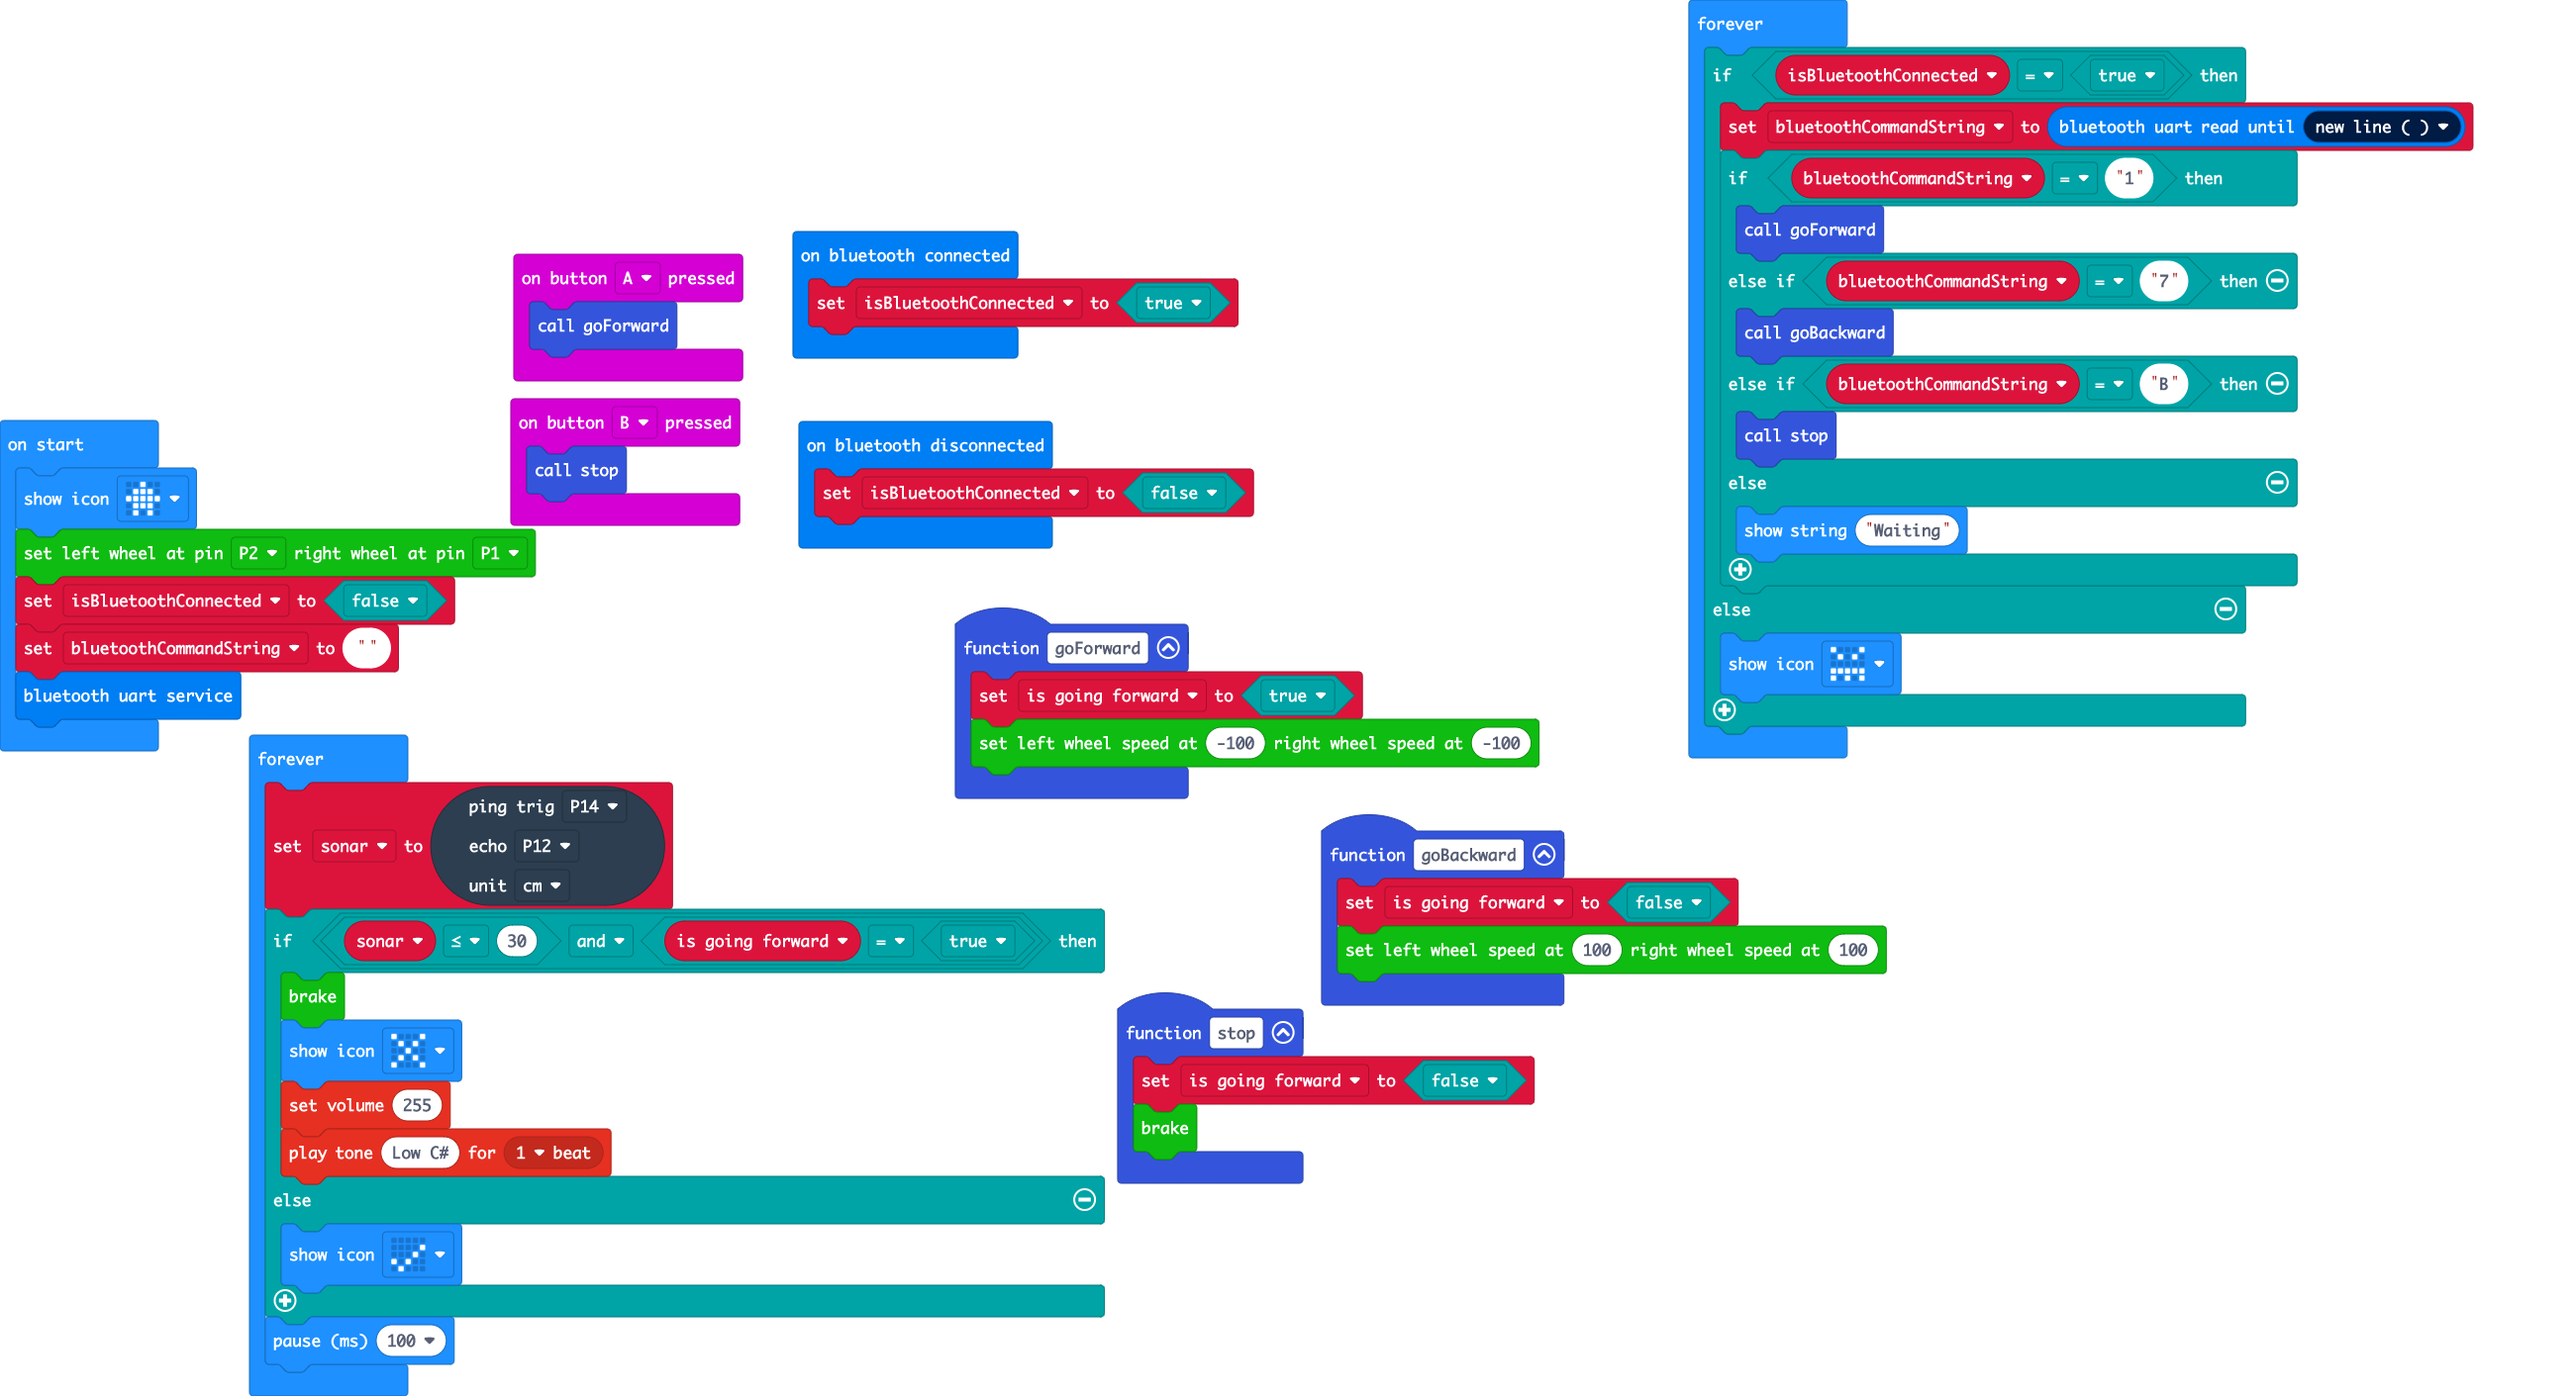
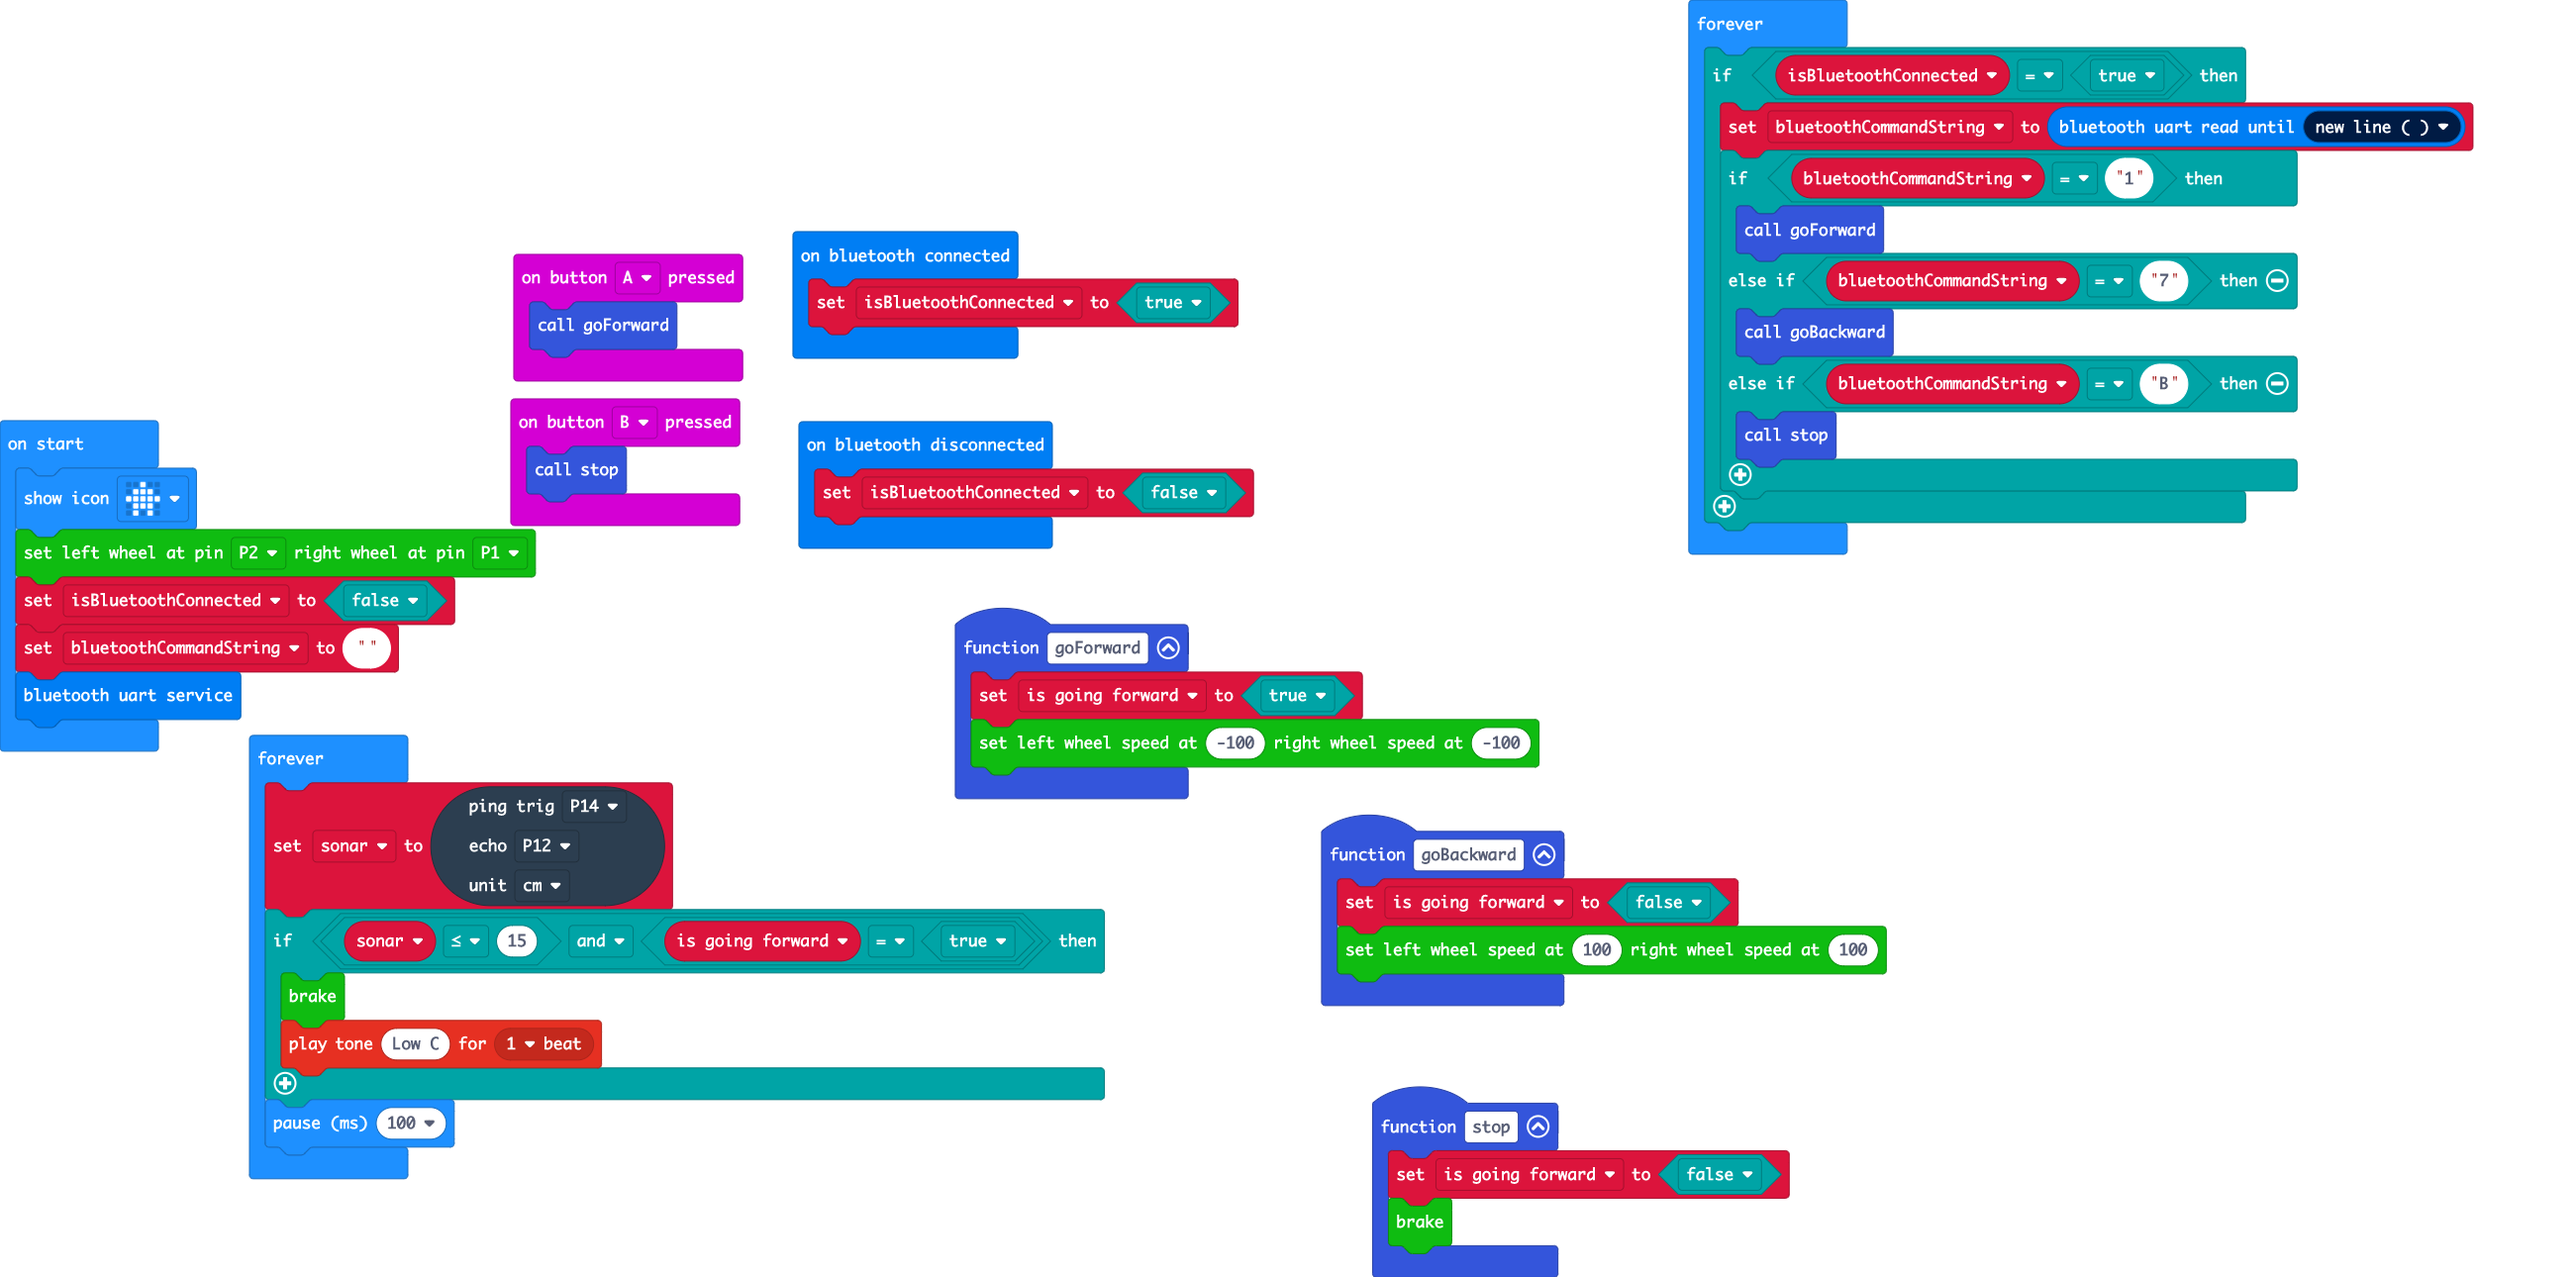
Update main.blocks, main.ts

Changed region(s): [[0.0, 0.155, 0.7471, 1.0], [0.6537, 0.0, 0.965, 0.5581], [0.5292, 0.8372, 0.716, 1.0]]

diff --git a/main.ts b/main.ts
@@ -39,11 +39,7 @@ basic.forever(function () {
             goBackward()
         } else if (bluetoothCommandString == "B") {
             stop()
-        } else {
-            basic.showString("Waiting")
         }
-    } else {
-        basic.showIcon(IconNames.Angry)
     }
 })
 basic.forever(function () {
@@ -52,13 +48,9 @@ basic.forever(function () {
     DigitalPin.P12,
     PingUnit.Centimeters
     )
-    if (sonar2 <= 30 && is_going_forward == true) {
+    if (sonar2 <= 15 && is_going_forward == true) {
         RingbitCar.brake()
-        basic.showIcon(IconNames.No)
-        music.setVolume(255)
-        music.playTone(139, music.beat(BeatFraction.Whole))
-    } else {
-        basic.showIcon(IconNames.Yes)
+        music.playTone(131, music.beat(BeatFraction.Whole))
     }
     basic.pause(100)
 })
